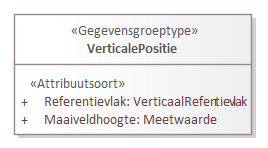
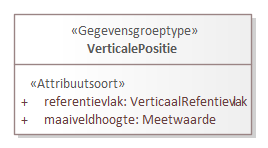
Conceptualmodel-MilieuhygienischbodemonderzoekSAD-0.2-1-20230126-20230207-101143

Changed region(s): [[0.1493, 0.6486, 0.8657, 0.7297], [0.1493, 0.7568, 0.806, 0.8649]]

diff --git a/data/SAD-cat.msword.html b/data/SAD-cat.msword.html
@@ -15,7 +15,7 @@
    <body>
       <p>Conceptual model/Milieuhygienisch bodemonderzoek SAD/20230126</p>
       <p>Imvertor: 2.0.0</p>
-      <p>Model release: Conceptualmodel-MilieuhygienischbodemonderzoekSAD-0.2-1-20230126-20230201-134513</p>
+      <p>Model release: Conceptualmodel-MilieuhygienischbodemonderzoekSAD-0.2-1-20230126-20230207-101143</p>
       <hr>
       <section>
          <h1>Artikel 1 Definitie van registratieobject, entiteiten en attributen</h1>
@@ -1954,8 +1954,8 @@
                               </td>
                         </tr>
                      </tbody>
-                  </table><a class="anchor" id="detail_attribute_Model_VerticalePositie_Referentievlak"></a><section id="detail_attribute_Model_VerticalePositie_Referentievlak">
-                     <h4>  Referentievlak</h4>
+                  </table><a class="anchor" id="detail_attribute_Model_VerticalePositie_referentievlak"></a><section id="detail_attribute_Model_VerticalePositie_referentievlak">
+                     <h4>  referentievlak</h4>
                      
                      <table style="width: 100%;">
                         <colgroup style="width: 30%;"></colgroup>
@@ -1996,8 +1996,8 @@
                            </tr>
                         </tbody>
                      </table>
-                     </section><a class="anchor" id="detail_attribute_Model_VerticalePositie_Maaiveldhoogte"></a><section id="detail_attribute_Model_VerticalePositie_Maaiveldhoogte">
-                     <h4>  Maaiveldhoogte</h4>
+                     </section><a class="anchor" id="detail_attribute_Model_VerticalePositie_maaiveldhoogte"></a><section id="detail_attribute_Model_VerticalePositie_maaiveldhoogte">
+                     <h4>  maaiveldhoogte</h4>
                      
                      <table style="width: 100%;">
                         <colgroup style="width: 30%;"></colgroup>

diff --git a/data/SAD-cat.respec.html b/data/SAD-cat.respec.html
@@ -1930,8 +1930,8 @@
                      </td>
                </tr>
             </tbody>
-         </table><a class="anchor" id="detail_attribute_Model_VerticalePositie_Referentievlak"></a><section id="detail_attribute_Model_VerticalePositie_Referentievlak">
-            <h4>  Referentievlak</h4>
+         </table><a class="anchor" id="detail_attribute_Model_VerticalePositie_referentievlak"></a><section id="detail_attribute_Model_VerticalePositie_referentievlak">
+            <h4>  referentievlak</h4>
             
             <table style="width: 100%;">
                <colgroup style="width: 30%;"></colgroup>
@@ -1972,8 +1972,8 @@
                   </tr>
                </tbody>
             </table>
-            </section><a class="anchor" id="detail_attribute_Model_VerticalePositie_Maaiveldhoogte"></a><section id="detail_attribute_Model_VerticalePositie_Maaiveldhoogte">
-            <h4>  Maaiveldhoogte</h4>
+            </section><a class="anchor" id="detail_attribute_Model_VerticalePositie_maaiveldhoogte"></a><section id="detail_attribute_Model_VerticalePositie_maaiveldhoogte">
+            <h4>  maaiveldhoogte</h4>
             
             <table style="width: 100%;">
                <colgroup style="width: 30%;"></colgroup>
